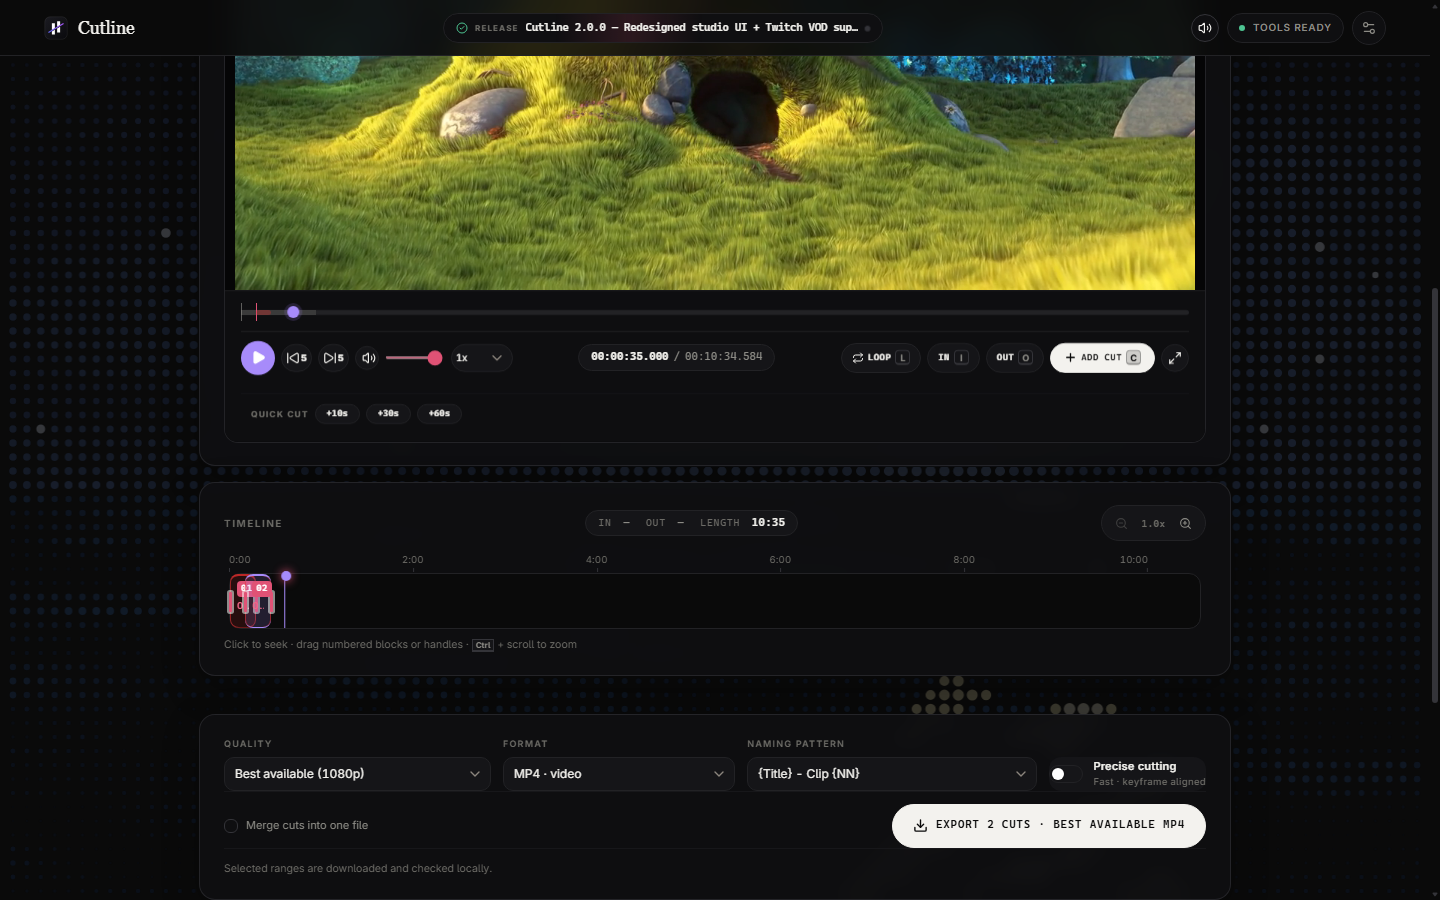
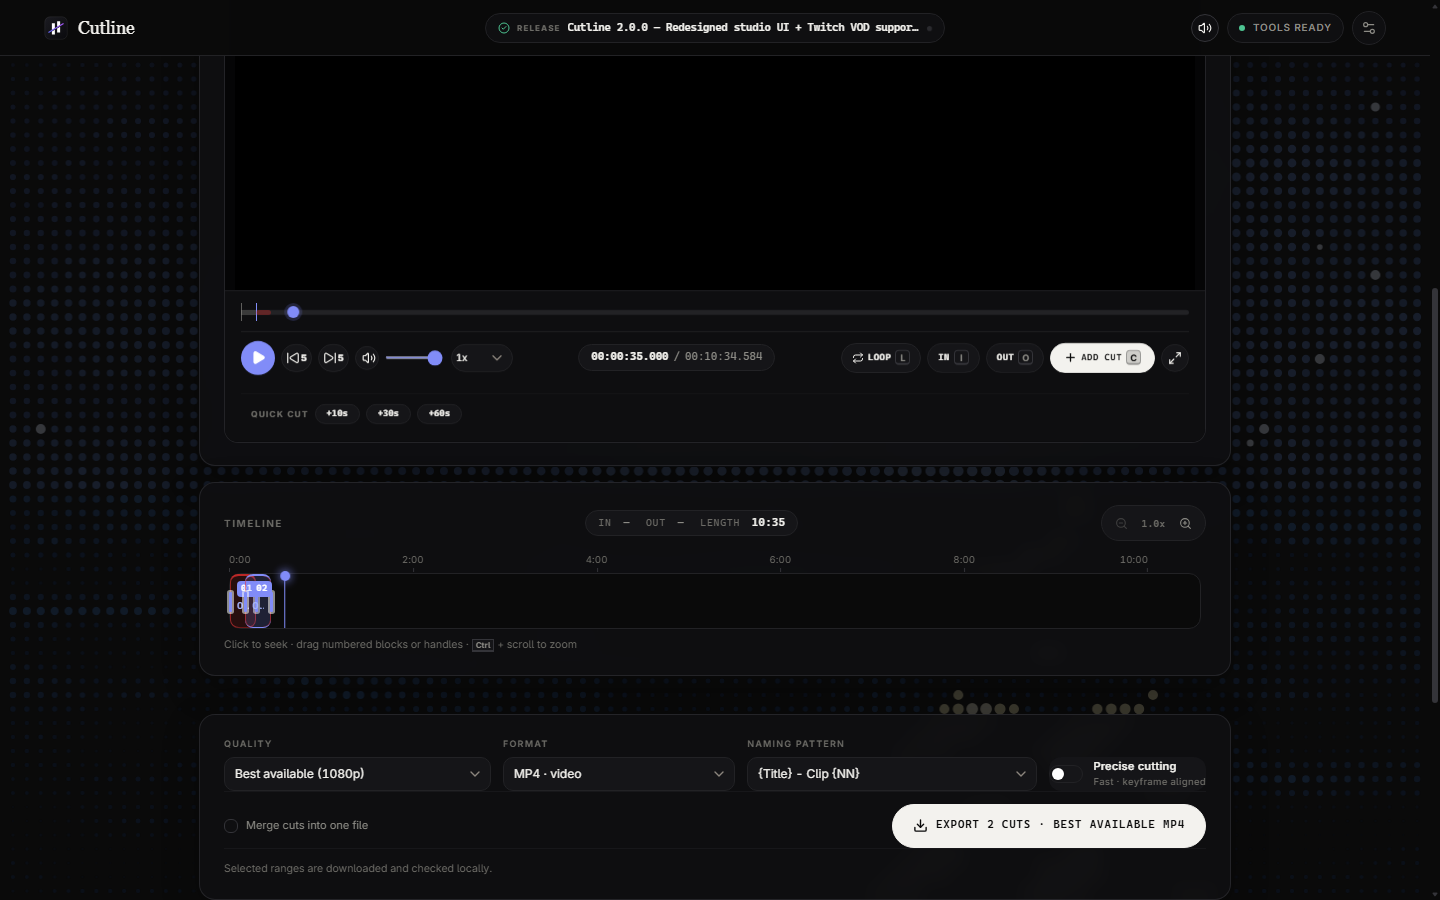
Center TopBar globalInfo with symmetric CSS grid and complete full layout audit

diff --git a/src/styles/app.css b/src/styles/app.css
@@ -4449,8 +4449,11 @@ html[data-theme="light"] .app-shell.has-video .ascii-field-ambient {
   transform: scale(1.06);
 }
 
-/* TopBar */
+/* TopBar — symmetric 3-column grid keeps globalInfo dead-center with zero overlap */
 .topbar {
+  display: grid;
+  grid-template-columns: minmax(0, 1fr) minmax(0, auto) minmax(0, 1fr);
+  align-items: center;
   background: color-mix(in srgb, var(--background) 88%, transparent);
   backdrop-filter: blur(14px);
   border-bottom: 1px solid var(--border);
@@ -4459,6 +4462,7 @@ html[data-theme="light"] .app-shell.has-video .ascii-field-ambient {
 }
 
 .topbar .brand {
+  justify-self: start;
   flex: 0 0 auto;
   gap: 10px;
 }
@@ -4477,17 +4481,18 @@ html[data-theme="light"] .app-shell.has-video .ascii-field-ambient {
   left: auto;
   top: auto;
   transform: none;
-  flex: 1 1 auto;
+  justify-self: center;
   min-width: 0;
-  max-width: 440px;
+  max-width: min(460px, 42vw);
   width: auto;
-  margin: 0 auto;
+  margin: 0;
   display: flex;
   justify-content: center;
   pointer-events: none;
 }
 
 .topbar-right {
+  justify-self: end;
   flex: 0 0 auto;
   white-space: nowrap;
 }

diff --git a/README.md b/README.md
@@ -31,7 +31,7 @@ Instead of downloading an entire multi-hour VOD or video just to trim out a 30-s
 
 Grab the installer from `src-tauri/target/release/bundle/nsis/Cutline_2.0.0_x64-setup.exe` after building, or download a release.
 
[2 lines of base64/hex data omitted]
 
 You need:
 
